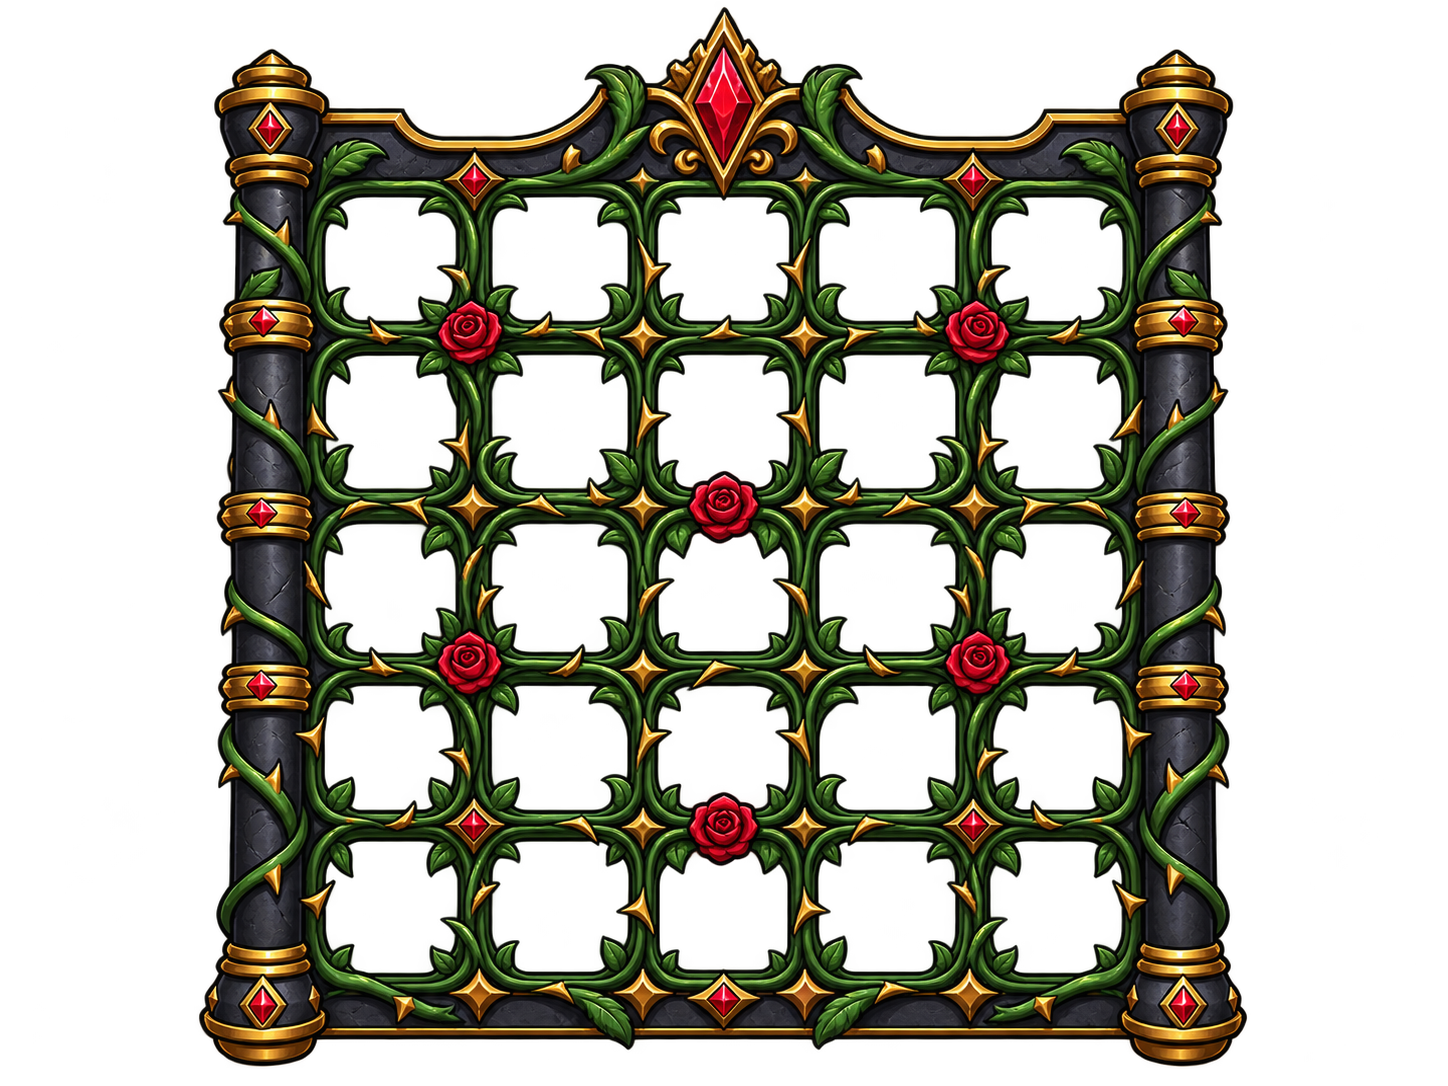
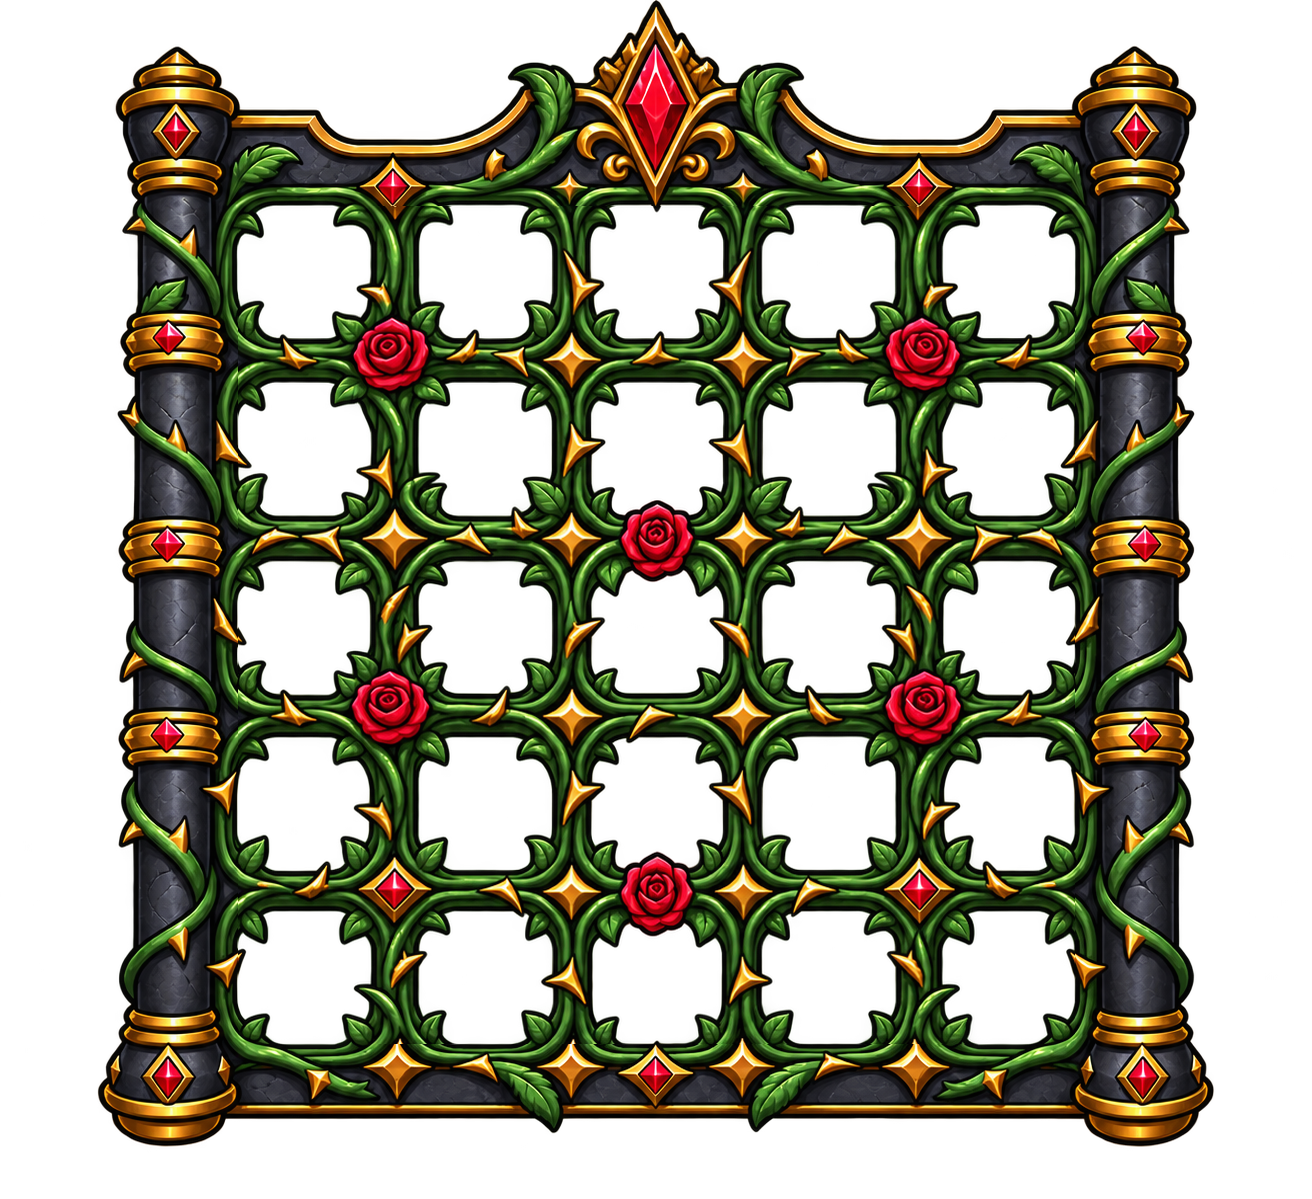
feat: vine-stone slot frame, 135px tier tiles, bigger tier step

diff --git a/frontend/apps/poc/src/game/skyjump_v2/presentationLayout.ts b/frontend/apps/poc/src/game/skyjump_v2/presentationLayout.ts
@@ -97,22 +97,25 @@ export const V2_PANEL_DECOR = {
  * Scale 1 keeps that hole on the grid — about 6% tighter than the previous 1.078.
  */
 /**
- * `slot_background_1.png` (1448x1086, "Gotycka rama inwentarza z różami"): 25 hand-drawn windows of about 133 x 128 art px.
- * Their measured centres deviate from an even 167 x 162.4 pitch by at most ~3 px, so the grid is snapped to an even one (a tile
- * then has the same offset in every cell and nothing shifts when a reel stops). Drawn as one piece (SlotFrameLayer, one band).
+ * `slot_background_1.png` (1312x1199, `slot_frame_vine_stone_5x5_132ish_fixed.png`): 25 windows of 130 +-3 art px.
+ * Rows are snapped to an even pitch (a tile has the same vertical offset in every row, so nothing shifts when a reel
+ * stops); column centres are the measured ones (a reel keeps its own column, so they cannot cause a jump).
+ * Drawn as one piece (SlotFrameLayer, one band).
  */
 export const V2_FRAME_BANDS = {
-	srcH: 1086,
-	outH: 1086,
-	bands: [{ srcStart: 0, srcEnd: 1086, outStart: 0, outEnd: 1086 }],
+	srcH: 1199,
+	outH: 1199,
+	bands: [{ srcStart: 0, srcEnd: 1199, outStart: 0, outEnd: 1199 }],
 } as const;
 
-const ART = { w: 1448, h: 1086 };
-const PITCH = { w: 167, h: 162.4 };
-const WIN = { w: 133, h: 128 };
-/** First window's top-left corner in the art. */
-const FIRST = { x: 389.1 - WIN.w / 2, y: 258.9 - WIN.h / 2 };
-const GRID_ORIGIN = { x: FIRST.x - (PITCH.w - WIN.w) / 2, y: FIRST.y - (PITCH.h - WIN.h) / 2 };
+const ART = { w: 1312, h: 1199 };
+const PITCH = { w: 176.5, h: 176.7 };
+/** Nominal window (symbol reference size) and the tier tile, in art px. The tile is larger and sits under the frame lattice. */
+const WIN = { w: 130, h: 130 };
+const TILE = 135;
+const COL_CENTERS = [303.4, 484.6, 656.6, 829.0, 1009.3];
+const ROW_CENTER0 = 270.2;
+const GRID_ORIGIN = { x: COL_CENTERS[2] - 2.5 * PITCH.w, y: ROW_CENTER0 + 2 * PITCH.h - 2.5 * PITCH.h };
 
 export const V2_SLOT_BOARD_FRAME = {
 	/** Playfield: the 5x5 block of pitches around the windows, as fractions of the art. */
@@ -129,13 +132,13 @@ export const V2_FRAME_WINDOWS = {
 	art: ART,
 	origin: GRID_ORIGIN,
 	pitch: PITCH,
-	colX: [0, 1, 2, 3, 4].map((i) => FIRST.x + PITCH.w * i),
-	rowY: [0, 1, 2, 3, 4].map((i) => FIRST.y + PITCH.h * i),
+	colX: COL_CENTERS.map((c) => c - WIN.w / 2),
+	rowY: [0, 1, 2, 3, 4].map((i) => ROW_CENTER0 + PITCH.h * i - WIN.h / 2),
 	/** Window size, art px. */
 	winW: WIN.w,
 	winH: WIN.h,
-	/** Tier tiles and the default window background are drawn this much larger than the window, under the frame lattice. */
-	tileGrow: 1.14,
+	/** Tier tiles and the default window background are drawn TILE x TILE art px, under the frame lattice. */
+	tileGrow: TILE / WIN.h,
 } as const;
 
 /** Window height / cell height: the symbol box is a whole cell, the visible window is smaller. */
@@ -143,13 +146,13 @@ const WINDOW_FIT = WIN.h / PITCH.h;
 
 /**
  * Symbol height by tier as a fraction of the frame WINDOW height. Steps between regular tiers are 5 %
- * (low -> medium -> premium), all +5 % on the previous pass; scatter, Concierge / Mystery and feature symbols match premium.
+ * (low -> medium -> premium), tier step +50 % (4.2 -> 6.3 points of window height); scatter, Concierge / Mystery and feature symbols match premium.
  */
 export const V2_TIER_SCALE: Record<string, number> = {
 	low: 0.84 * WINDOW_FIT,
-	medium: 0.882 * WINDOW_FIT,
-	premium: 0.924 * WINDOW_FIT,
-	scatter: 0.924 * WINDOW_FIT,
-	concierge_mystery: 0.924 * WINDOW_FIT,
-	feature: 0.924 * WINDOW_FIT,
+	medium: 0.903 * WINDOW_FIT,
+	premium: 0.966 * WINDOW_FIT,
+	scatter: 0.966 * WINDOW_FIT,
+	concierge_mystery: 0.966 * WINDOW_FIT,
+	feature: 0.966 * WINDOW_FIT,
 };

diff --git a/frontend/apps/poc/src/components/skyjump_v2/SkyJumpV2Board.svelte b/frontend/apps/poc/src/components/skyjump_v2/SkyJumpV2Board.svelte
@@ -286,7 +286,7 @@
 	const gap = 0;
 	const framePad = 0;
 	/** Slot width (px @1280): the frame art is scaled so the 5x5 playfield is this wide. */
-	const BOARD_GRID_W = 524;
+	const BOARD_GRID_W = 521;
 	// Not rounded: a rounded cell height drifts away from the frame's 133.2 art-px row pitch (up to 2.5 px by the last row).
 	const cellW = $derived(Math.max(22, px(BOARD_GRID_W) / 5));
 	const cellH = $derived(Math.max(22, cellW / V2_SLOT_BOARD_FRAME.cellAspect));

diff --git a/docs/midnight-lounge-character-animation.md b/docs/midnight-lounge-character-animation.md
@@ -386,3 +386,10 @@ Fixed after the guideline review (verified against a local mock RGS, a productio
 
 - `scene/slot_background_1.png` is `Gotycka rama inwentarza z różami.png` (1448x1086). Its 25 hand-drawn windows (~133x128 art px) are snapped to an even
   167 x 162.4 grid (measured deviation <= ~3 px, hidden by `tileGrow`); `BOARD_GRID_W` 524 keeps the windows ~82 px and the last row above the WIN plate.
+
+## Vine-stone frame, 135 px tiles (latest)
+
+- `scene/slot_background_1.png` is `slot_frame_vine_stone_5x5_132ish_fixed.png` (1312x1199, windows 130 +-3 px). Rows snapped to an even 176.7 pitch, column
+  centres as measured. Tier tiles and the default window background are rendered 135x135 art px (`tileGrow` = 135/130) under the frame lattice.
+- Tier growth: step between tiers +50 % (low 0.84, medium 0.903, premium and feature symbols 0.966 of the 130 px window).
+- `BOARD_GRID_W` 521 (the frame is 1199 art px tall; the last row has to end above the WIN plate).
